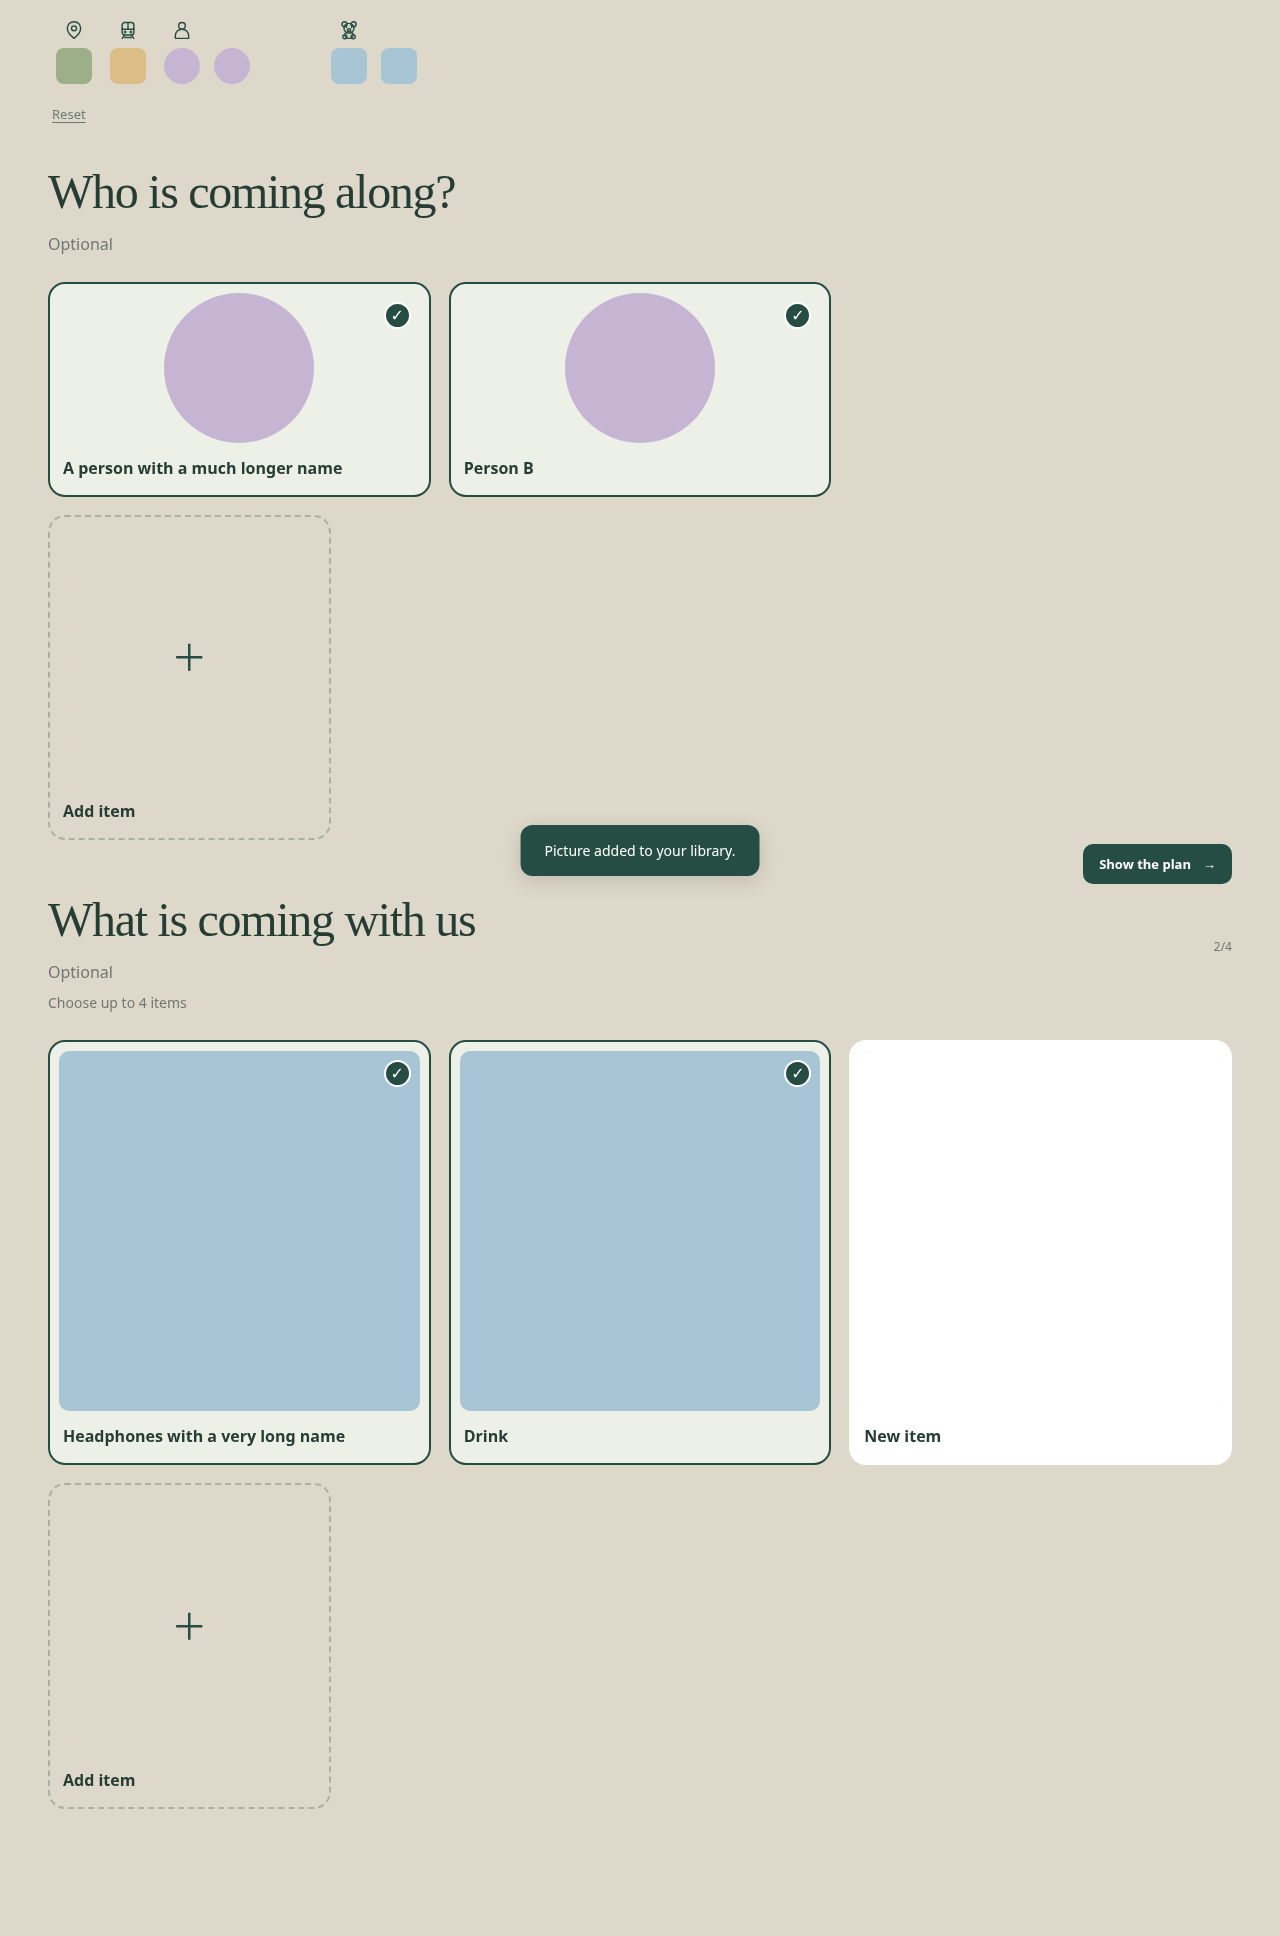
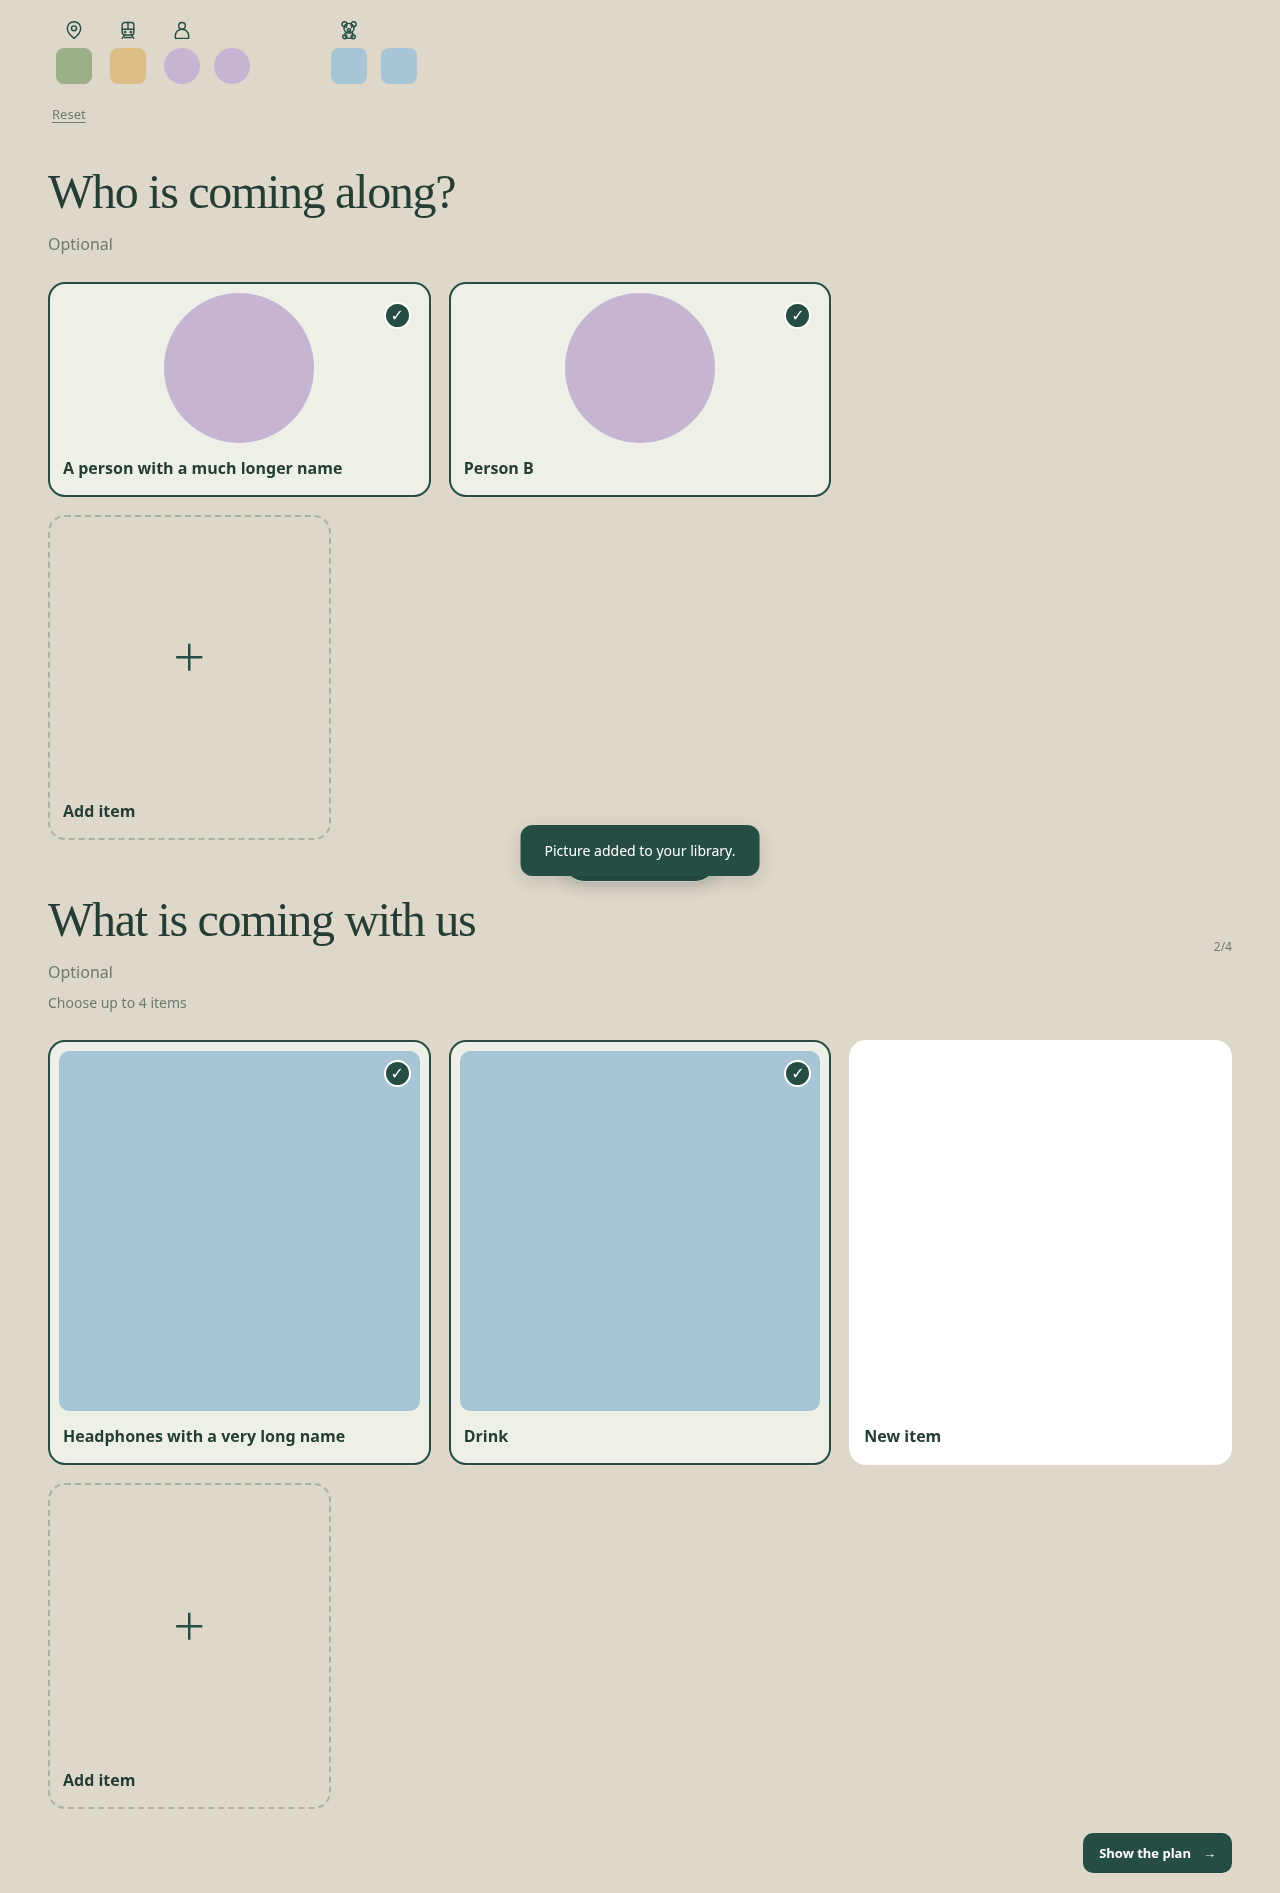
Place plan action at page bottom and add scroll cue in v1.0.31

diff --git a/transition_cues/transition-cues-web/app.js b/transition_cues/transition-cues-web/app.js
@@ -60,7 +60,9 @@ function renderChoose(focusStep=false) {
   const title=['Where are we going?','How are we travelling','Who is coming along?'][planStep];
   const heading=`<div class="intro wizard-heading"><div><h1 id="planHeading" tabindex="-1">${title}</h1>${planStep===2?'<p class="optional-label">Optional</p>':''}</div></div>`;
   const choices=planStep===2?`${cards('people')}<section class="optional-items" aria-labelledby="itemsHeading"><div class="intro wizard-heading"><div><h2 id="itemsHeading" tabindex="-1">What is coming with us</h2><p class="optional-label">Optional</p><p class="items-guidance">Choose up to 4 items</p></div><small id="itemCount" role="status">${selected.items.length}/${MAX_BRING_ITEMS}</small></div>${cards('items')}</section>`:cards(planStep===0?'places':'transport');
-  frame(`<section id="planStep" data-step="${planStep}" aria-labelledby="planHeading">${heading}${planStep===0?`<fieldset class="location-count"><legend>Number of stops</legend><div class="stop-segments">${[1,2,3].map(count=>`<button type="button" data-location-count="${count}" aria-pressed="${locationCount===count}">${count}</button>`).join('')}</div></fieldset>`:''}${choices}</section><div class="journey-bar wizard-actions" ${selected.places?'':'hidden'}><button id="start" class="primary" ${chosenLocations().length===locationCount&&selected.transport?'':'disabled'}>Show the plan <span aria-hidden="true">→</span></button></div>`,'choose',progress);
+  frame(`<section id="planStep" data-step="${planStep}" aria-labelledby="planHeading">${heading}${planStep===0?`<fieldset class="location-count"><legend>Number of stops</legend><div class="stop-segments">${[1,2,3].map(count=>`<button type="button" data-location-count="${count}" aria-pressed="${locationCount===count}">${count}</button>`).join('')}</div></fieldset>`:''}${choices}</section><div class="journey-bar wizard-actions" ${selected.places?'':'hidden'}><button id="start" class="primary" ${chosenLocations().length===locationCount&&selected.transport?'':'disabled'}>Show the plan <span aria-hidden="true">→</span></button></div><button type="button" id="scrollCue" class="scroll-cue" hidden><span>${planStep===2?'Scroll to finish':'Scroll for more'}</span><svg viewBox="0 0 24 24" fill="none" stroke="currentColor" stroke-width="2" stroke-linecap="round" stroke-linejoin="round" aria-hidden="true"><path d="m6 9 6 6 6-6"/></svg></button>`,'choose',progress);
+  $('#scrollCue').onclick=()=>window.scrollBy({top:window.innerHeight*.65,behavior:matchMedia('(prefers-reduced-motion: reduce)').matches?'auto':'smooth'});
+  queueScrollCue();
   app.querySelectorAll('[data-add-kind]').forEach(button=>button.onclick=()=>openUpload(button.dataset.addKind));
   app.querySelectorAll('[data-location-count]').forEach(button=>button.onclick=()=>{locationCount=Number(button.dataset.locationCount);selected.locations=chosenLocations().slice(0,locationCount);selected.places=selected.locations[0]||null;renderChoose();app.querySelector(`[data-location-count="${locationCount}"]`).focus({preventScroll:true});});
 
@@ -94,6 +96,18 @@ function renderChoose(focusStep=false) {
   };
   if(focusStep){$('#planHeading').focus({preventScroll:true});window.scrollTo(0,0);}
 }
+let scrollCueFrame=0;
+function queueScrollCue(){
+  if(scrollCueFrame)return;
+  scrollCueFrame=requestAnimationFrame(()=>{
+    scrollCueFrame=0;
+    const cue=$('#scrollCue');if(!cue)return;
+    cue.hidden=document.documentElement.scrollHeight-window.scrollY-window.innerHeight<=24;
+  });
+}
+window.addEventListener('scroll',queueScrollCue,{passive:true});
+window.addEventListener('resize',queueScrollCue);
+new ResizeObserver(queueScrollCue).observe(app);
 function beginJourney() {
   if(!pendingJourney)return;
   try { localStorage.setItem('tc-locked-journey', JSON.stringify(pendingJourney)); }

diff --git a/transition_cues/transition-cues-web/style.css b/transition_cues/transition-cues-web/style.css
@@ -70,3 +70,6 @@
 @media(max-width:620px){.other-choices,.frequent-choices{gap:8px}.other-choices .picture,.frequent-choices .picture{padding:5px;border-radius:12px}.other-choices .picture .name,.frequent-choices .picture .name{font-size:12px;padding:8px 1px 3px}.other-choices .picture img,.frequent-choices .picture img{width:100%;height:auto;aspect-ratio:1}.other-choices .check,.frequent-choices .check{width:20px;height:20px;line-height:16px;top:8px;right:8px;font-size:12px}.locked .cue-pair.multi-stop{grid-template-columns:repeat(2,minmax(0,1fr));gap:18px 12px}}
 
 .add-picture{border:2px dashed #a9b2a1;justify-content:flex-start;background:transparent;align-items:stretch}.add-picture-symbol{display:grid;place-items:center;aspect-ratio:1;width:100%;font-size:36px;color:var(--green)}.category-segments{width:min(100%,600px)}.category-segments [role=tab]{flex-direction:column;gap:6px}#uploadDialog{width:min(480px,calc(100% - 24px));max-height:calc(100dvh - 24px);overflow-y:auto}#uploadForm{display:grid;gap:12px}#uploadDialog .dialog-actions{flex-wrap:wrap}#uploadDialog .preview-image{object-fit:contain}
+
+/* Keep the final action after the choices, with a cue when more content is below. */
+.shell:has(#planStep){display:flex;flex-direction:column;min-height:100dvh;padding-bottom:max(20px,env(safe-area-inset-bottom))}.shell:has(#planStep)>.header,#planStep{flex-shrink:0}.wizard-actions{position:static;bottom:auto;margin: auto 0 0;padding-top:24px;flex-shrink:0}.scroll-cue{position:fixed;z-index:5;left:50%;bottom:max(18px,env(safe-area-inset-bottom));transform:translateX(-50%);display:inline-flex;align-items:center;justify-content:center;gap:8px;min-height:44px;padding:10px 16px;border:1px solid #d3d9ca;border-radius:24px;background:var(--green);color:white;box-shadow:0 4px 18px #253d3533;font-size:13px;font-weight:600;white-space:nowrap}.scroll-cue svg{width:20px;height:20px;flex:none}body:has(dialog[open]) .scroll-cue{display:none}

diff --git a/tests/browser_display.py b/tests/browser_display.py
@@ -99,6 +99,18 @@ def run(engine):
                 assert page.locator('[data-choice-group="people"]').bounding_box()['y']<page.locator('[data-choice-group="items"]').bounding_box()['y']
                 expect(page.locator('.step-number')).to_have_count(0)
                 expect(page.locator('#nextStep')).to_have_count(0)
+                page.set_viewport_size({'width':390,'height':600})
+                page.evaluate('window.scrollTo(0,0)')
+                expect(page.get_by_role('button',name='Scroll to finish',exact=True)).to_be_visible()
+                page.locator('#scrollCue').click()
+                page.wait_for_function('()=>window.scrollY>0')
+                page.evaluate('window.scrollTo(0,document.documentElement.scrollHeight)')
+                expect(page.locator('#scrollCue')).not_to_be_visible()
+                expect(page.locator('#start')).to_be_in_viewport()
+                assert page.locator('.wizard-actions').evaluate("el=>getComputedStyle(el).position")=='static'
+                assert page.locator('#start').bounding_box()['y']>=page.locator('#planStep').bounding_box()['y']+page.locator('#planStep').bounding_box()['height']
+                page.screenshot(path='/tmp/readysteady-plan-bottom.png',full_page=True)
+
                 # Only the current category is rendered; mixed-length card names remain aligned.
                 for width,height in [(390,844),(768,1024),(1024,768),(1280,900)]:
                     page.set_viewport_size({'width':width,'height':height})

diff --git a/tests/container_smoke.py b/tests/container_smoke.py
@@ -81,5 +81,5 @@ print('PASS: replacement container preserves library and images in /data')
 
 if __name__ == '__main__':
     parser = argparse.ArgumentParser()
-    parser.add_argument('--image', default='transition-cues-ha-check:1.0.30')
+    parser.add_argument('--image', default='transition-cues-ha-check:1.0.31')
     run(parser.parse_args().image)

diff --git a/README.md b/README.md
@@ -24,7 +24,7 @@ No GitHub token is needed for this public repository. You do not need to copy fi
 
 ## Use
 
-Choose one to three locations in visit order, then transport. The **Number of stops** segmented control defaults to one. The first row shows up to three most-used pictures; other choices appear below in rows of four on phones. Usage is saved when a plan is shown and is shared across devices; ties keep the library order. After choosing a place, a grouped summary of selected pictures replaces the logo and settings cog. Tap a thumbnail to edit an earlier choice, or **Reset** below the row to clear all choices and start again. On the final page, optionally select people first and up to four bring-along items beneath them. Tap **Show the plan** when ready. The locked display shows each location as **To**, **Then**, **Then**, alongside transport, followed by selected people as circular portraits and bring-along items in side-by-side groups. The journey works in portrait and landscape. People and items are optional; tap any selected picture again to deselect it. Tap five times within three seconds to finish. Reloading restores the locked journey in that browser.
+Choose one to three locations in visit order, then transport. The **Number of stops** segmented control defaults to one. The first row shows up to three most-used pictures; other choices appear below in rows of four on phones. Usage is saved when a plan is shown and is shared across devices; ties keep the library order. After choosing a place, a grouped summary of selected pictures replaces the logo and settings cog. Tap a thumbnail to edit an earlier choice, or **Reset** below the row to clear all choices and start again. On the final page, optionally select people first and up to four bring-along items beneath them. Scroll through the choices and tap **Show the plan** at the bottom when ready. A floating scroll cue appears when there is more below; tap it or swipe to continue. The locked display shows each location as **To**, **Then**, **Then**, alongside transport, followed by selected people as circular portraits and bring-along items in side-by-side groups. The journey works in portrait and landscape. People and items are optional; tap any selected picture again to deselect it. Tap five times within three seconds to finish. Reloading restores the locked journey in that browser.
 
 Open the app on your phone or tablet and tap **Add item** at the end of the relevant Places, Transport, People or Items list. Choose a photo, enter its name and tap **Add to library**. The category is set by the list you opened it from. Use **Crop photo** to adjust the square frame before uploading. The new picture appears in that list without changing your current plan selections.
 
@@ -61,6 +61,7 @@ Screenshots use coloured test placeholders, not family photographs:
 - [Three-location journey](docs/screenshots/multiple-locations.png)
 - [Transport selection with thumbnail summary](docs/screenshots/transport.png)
 - [Combined People and Items page](docs/screenshots/companions.png)
+- [Bottom-of-page plan button on a phone](docs/screenshots/plan-bottom.png)
 - [Add item](docs/screenshots/add-item.png)
 - [Manage photos](docs/screenshots/manage-photos.png)
 - [Portrait journey display](docs/screenshots/portrait.png)

diff --git a/transition_cues/DOCS.md b/transition_cues/DOCS.md
@@ -72,7 +72,7 @@ After the first place is selected, selected-picture thumbnails replace the logo 
 
 Each category starts with up to three frequently used choices; remaining pictures appear in rows of four on phones. Counts are saved in the add-on library when you show a plan, shared across devices and retained across add-on updates. Reloading a locked plan does not count it again. New pictures and ties follow library order.
 
-Category glyphs sit above each group. Extra People and Items wrap onto new lines within their own category. Selected locations stay grouped under Place, and Transport remains a single picture. Tap a thumbnail to edit that category while retaining other choices. Use **Reset** below the row to clear all choices, return to the first question and restore the logo and settings cog. **Show the plan** appears after choosing a place and becomes available once all requested locations and transport are selected; both optional categories may be left empty.
+Category glyphs sit above each group. Extra People and Items wrap onto new lines within their own category. Selected locations stay grouped under Place, and Transport remains a single picture. Tap a thumbnail to edit that category while retaining other choices. Use **Reset** below the row to clear all choices, return to the first question and restore the logo and settings cog. **Show the plan** appears after choosing a place and becomes available once all requested locations and transport are selected; both optional categories may be left empty. The button stays at the bottom of the page after all choices. A floating **Scroll to finish** cue appears on the final page while content remains below the screen (earlier pages use **Scroll for more**). Tap the cue or swipe to scroll. The cue disappears at the bottom and is hidden while a dialog is open.
 
 The journey appears in both portrait and landscape. On portrait phones, the People and Items groups stack to use the available width. Destination and transport photos stay aligned, with **To:** and **By:** beside their names. Long names expand downward. People and bring-along items appear in groups beside each other below the main photos; larger groups may wrap and the display can scroll.
 

diff --git a/transition_cues/CHANGELOG.md b/transition_cues/CHANGELOG.md
@@ -1,5 +1,10 @@
 # Changelog
 
+## 1.0.31
+
+- Keep Show the plan at the bottom of the page after all choices, instead of floating above them.
+- Add a floating scroll cue while more choices remain below the viewport; tap it to scroll down.
+
 ## 1.0.30
 
 - Rename Number of locations to Number of stops and use a sliding segmented control for 1–3 stops, with arrow-key and Home/End support.
